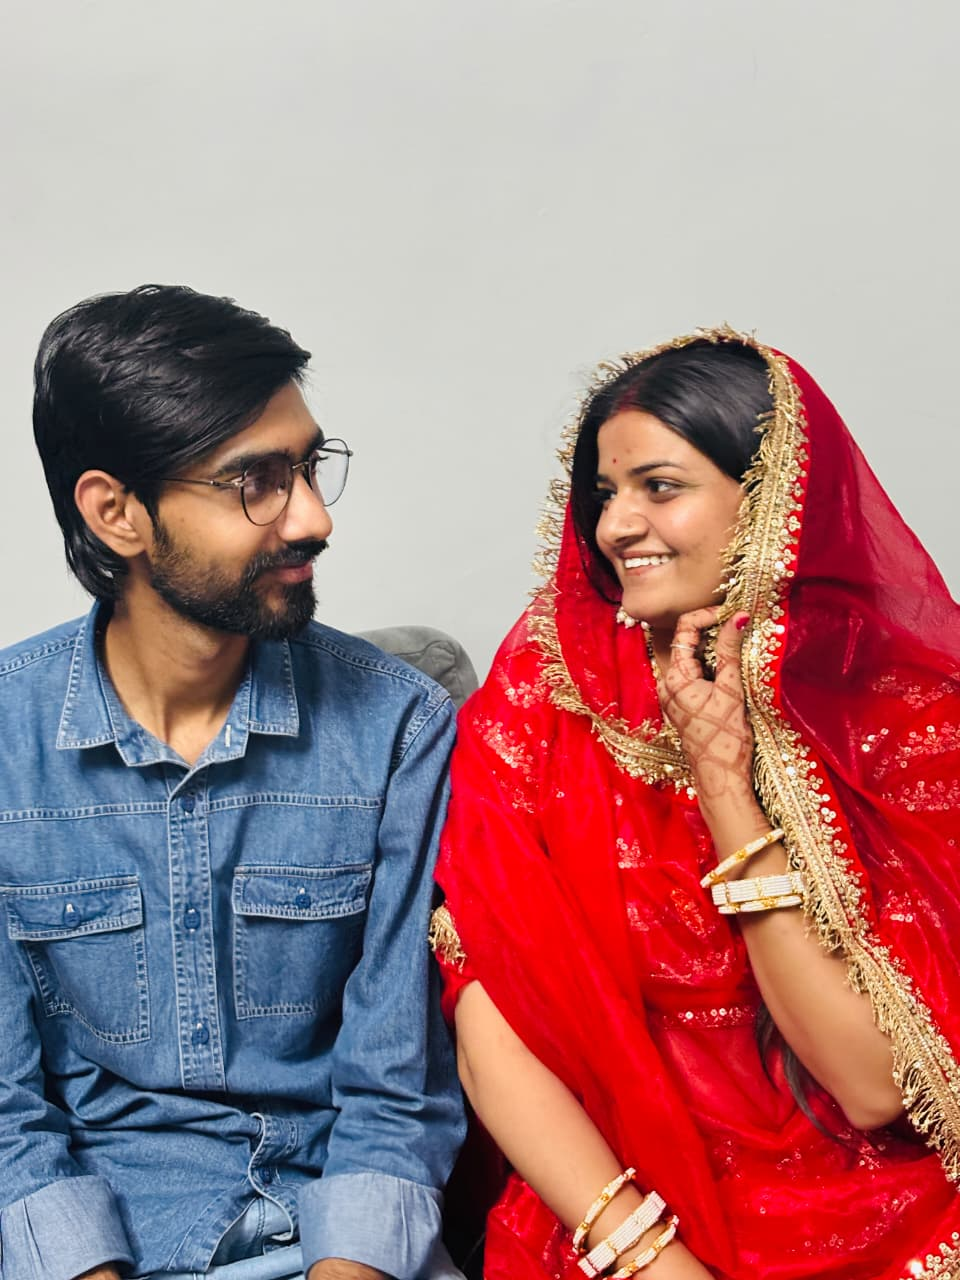
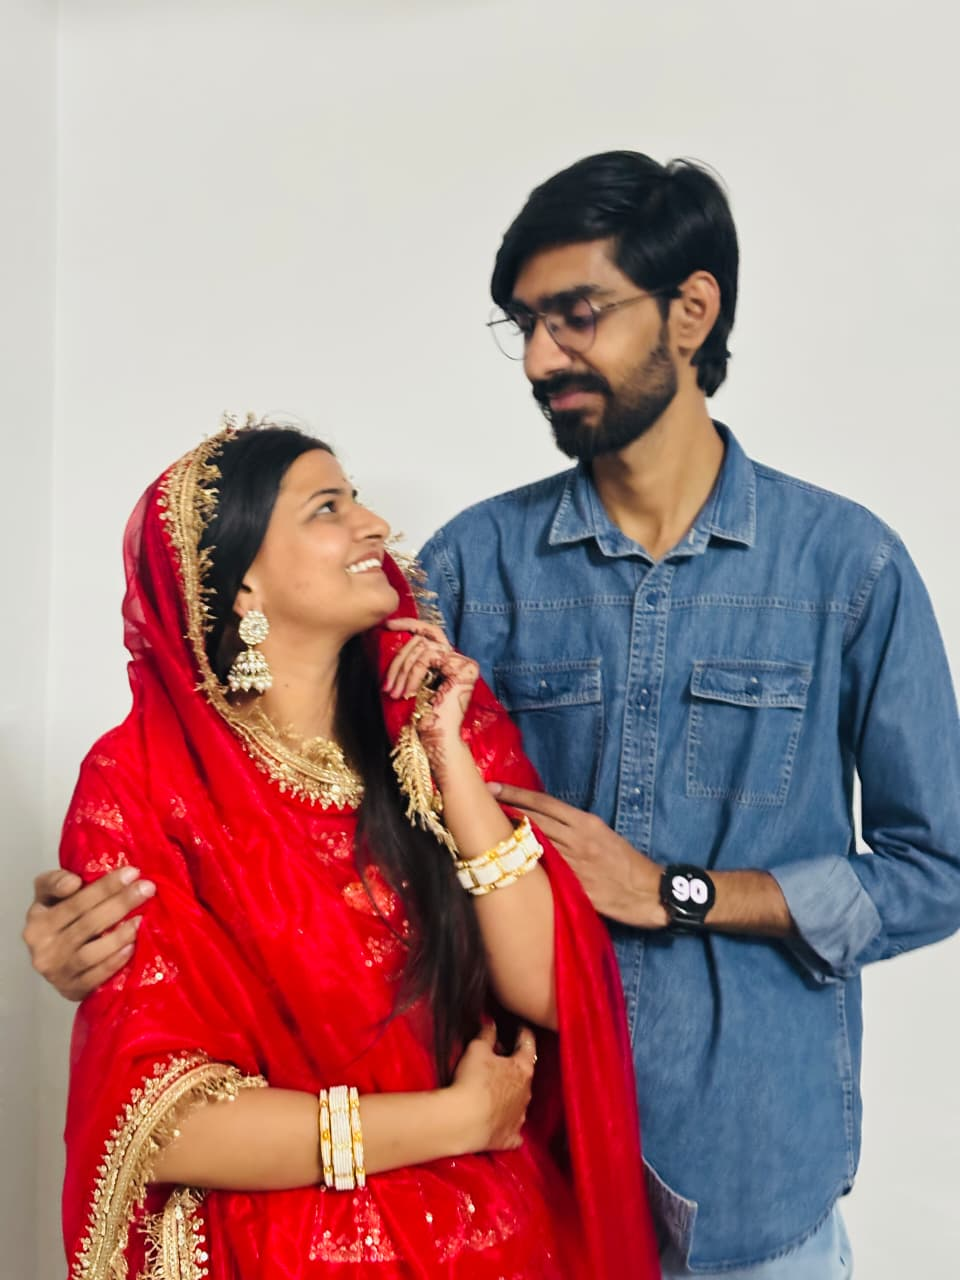
done

diff --git a/src/data/families.js b/src/data/families.js
@@ -19,15 +19,16 @@ export const families = [
     couple: "Dinesh Suthar",
     groups: [
       {
-        title: "Parents",
+        title: "Grand Parents",
         members: [
-          { names: ["Naresh Kumar", "Pushpa Devi"], relation: "Father & Mother", photo: "/photos/family/groom-parents.jpeg" },
+          { names: ["Kapoor ji Suthar", "Daku Devi"], relation: "Dada & Dadi", photo: "/photos/family/Dada-dadi.jpeg" },
         ],
       },
       {
-        title: "Uncles & Aunts",
+        title: " Parents & Uncles & Aunts",
         oneLine: true, // teeno ek hi line me
         members: [
+           { names: ["Naresh Kumar", "Pushpa Devi"], relation: "Father & Mother", photo: "/photos/family/groom-parents.jpeg" },
           { names: ["Sohanlal Suthar", "Manju Devi"], relation: "Bade Papa & Badi Mammi", photo: "/photos/family/SS.jpeg" },
           { names: ["Ramesh Suthar", "Indra Devi"], relation: "Uncle & Aunty", photo: "/photos/family/RK.jpeg" },
           { names: ["Sharavan Suthar", "Tara Devi"], relation: "Uncle & Aunty", photo: "/photos/family/SK.jpeg" },
